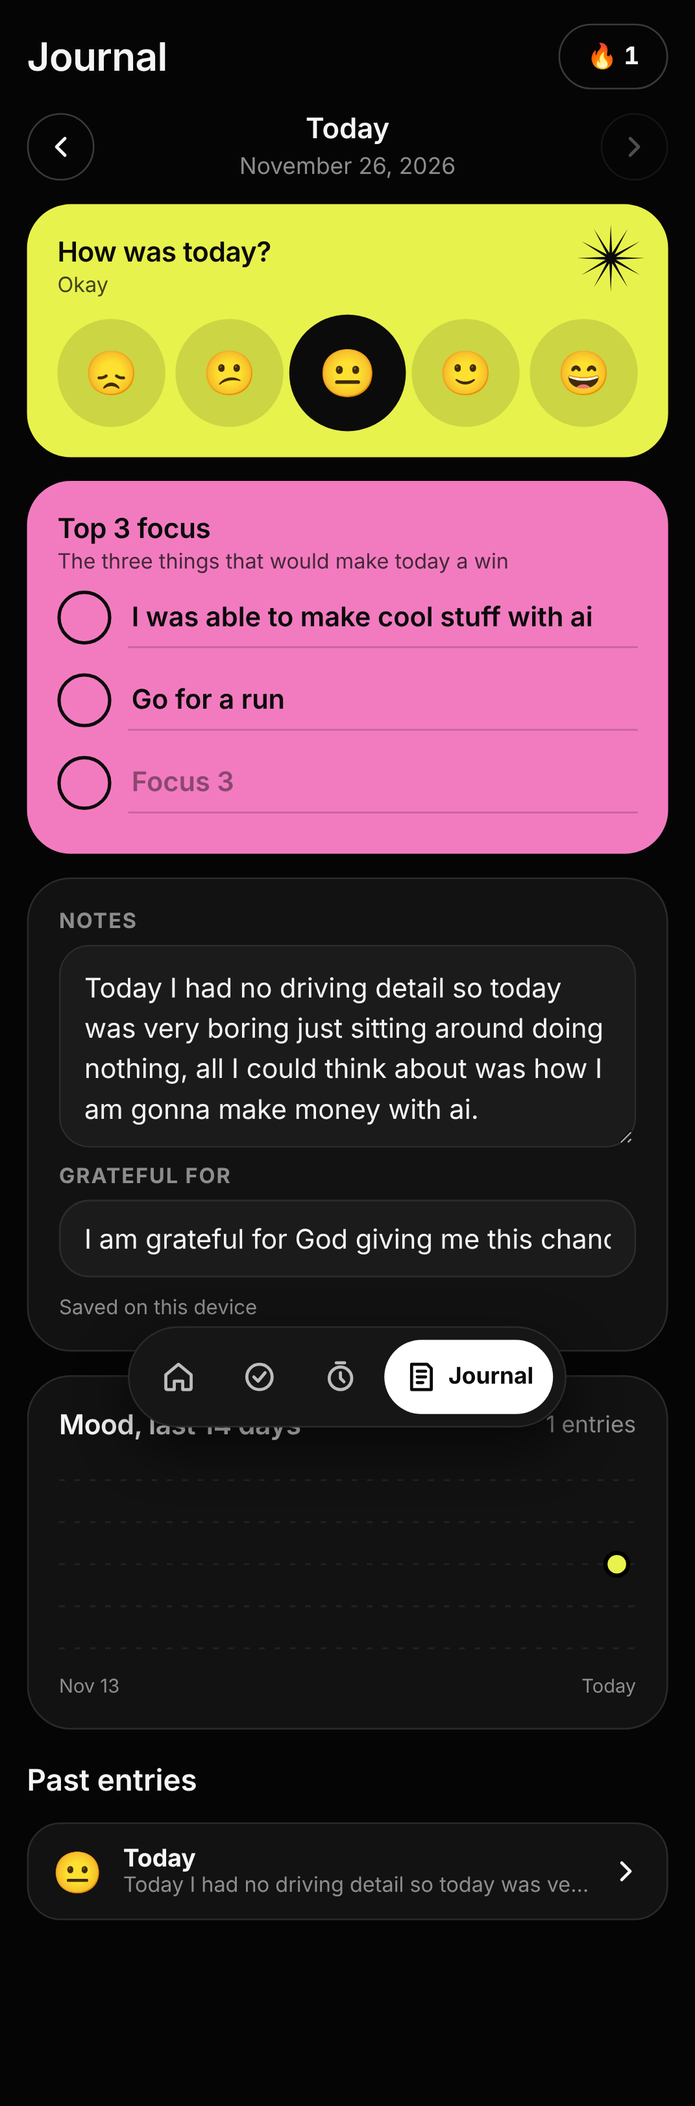
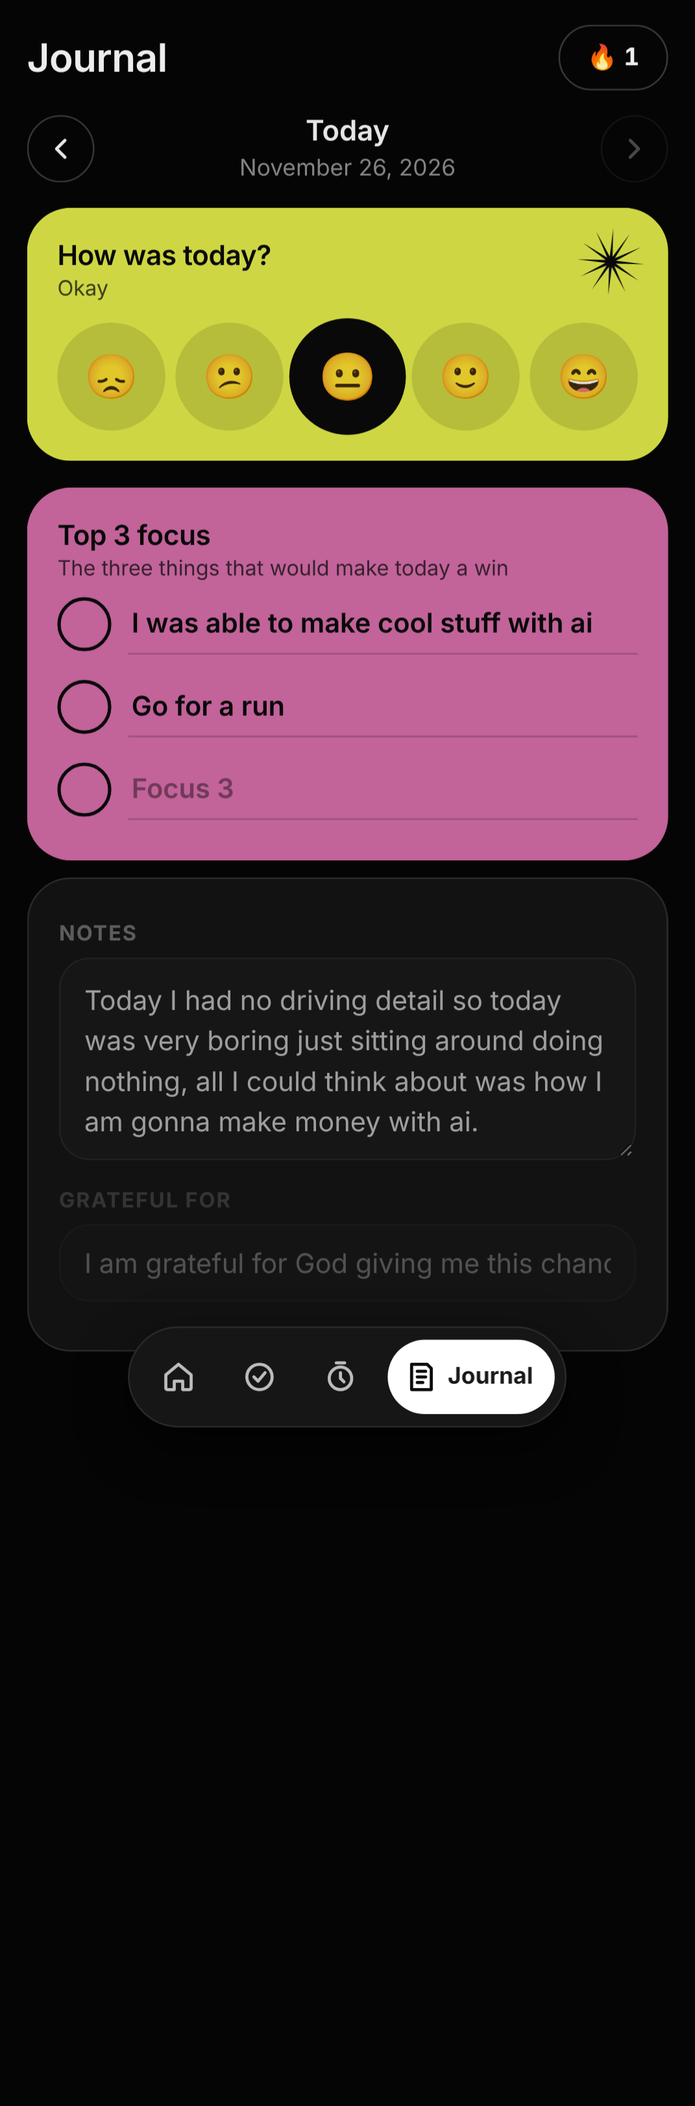
Dayflow: animations (staggered screens, sliding nav pill, check bursts, confetti, count-ups, chart draw, ticking seconds)
Claude-Session: https://claude.ai/code/session_0178LUQqk8rrMbbJeuVPEM3K

diff --git a/journal/index.html b/journal/index.html
@@ -233,25 +233,59 @@
   .intro input { width: 100%; font: inherit; font-size: 1.05rem; color: var(--text); background: transparent; border: 1.5px solid #3a3a3a; border-radius: 999px; padding: 14px 18px; position: relative; }
   .intro .go { width: 100%; border-radius: 999px; padding: 16px; background: #fff; color: var(--ink); font-weight: 800; font-size: 1rem; position: relative; }
 
-  .toast { position: fixed; left: 50%; bottom: calc(90px + env(safe-area-inset-bottom)); transform: translateX(-50%); z-index: 60; background: #fff; color: var(--ink); font-weight: 700; padding: 10px 16px; border-radius: 999px; font-size: .88rem; animation: up .2s ease-out; box-shadow: 0 8px 20px rgba(0,0,0,.5); }
+  .toast { position: fixed; left: 50%; bottom: calc(90px + env(safe-area-inset-bottom)); transform: translateX(-50%); z-index: 60; background: #fff; color: var(--ink); font-weight: 700; padding: 10px 16px; border-radius: 999px; font-size: .88rem; box-shadow: 0 8px 20px rgba(0,0,0,.5); white-space: nowrap; }
   .empty { color: var(--muted); font-size: .9rem; text-align: center; padding: 18px 8px; }
   .section-title { display: flex; align-items: center; justify-content: space-between; gap: 10px; margin-top: 6px; }
   .section-title h2 { font-family: var(--display); font-weight: 600; font-size: 1.1rem; }
   .footer-links { text-align: center; font-size: .78rem; color: var(--muted); margin-top: 8px; }
   .footer-links a { color: var(--muted); }
 
+  /* ---------- Motion ---------- */
+  canvas#fx { position: fixed; inset: 0; width: 100%; height: 100%; pointer-events: none; z-index: 70; }
+  .nav button { position: relative; z-index: 1; transition: color .25s; }
+  .nav button.on { background: transparent; }
+  .nav-ind { position: absolute; top: 7px; left: 7px; height: 44px; width: 44px; border-radius: 999px; background: #fff; z-index: 0; transition: left .42s cubic-bezier(.3,1.35,.5,1), width .42s cubic-bezier(.3,1.35,.5,1); }
+  .nav.no-anim .nav-ind { transition: none; }
+  .nav button.on span { animation: labelIn .35s ease-out; }
+  @keyframes labelIn { from { opacity: 0; transform: translateX(-6px); } }
+  .starburst polygon, .intro .stars polygon { transform-box: fill-box; transform-origin: center; animation: spinSlow 24s linear infinite; }
+  .intro .stars g:nth-child(2) polygon { animation-duration: 36s; animation-direction: reverse; }
+  .intro .stars g:nth-child(3) polygon { animation: spinSlow 30s linear infinite, starPop .9s cubic-bezier(.2,1.4,.4,1) both; }
+  @keyframes spinSlow { to { transform: rotate(360deg); } }
+  @keyframes starPop { from { transform: scale(0) rotate(-90deg); } }
+  .intro h1, .intro p, .intro input, .intro .go { animation: rise .7s cubic-bezier(.2,.8,.2,1) both; }
+  .intro p { animation-delay: .12s; } .intro input { animation-delay: .22s; } .intro .go { animation-delay: .32s; }
+  @keyframes rise { from { opacity: 0; transform: translateY(22px); } }
+  button.card, .habit, .entry, .wide-btn, .pill, .chip, .folder, .mini-item, .week button { transition: transform .18s cubic-bezier(.3,1.4,.5,1); }
+  button.card:active, .entry:active, .wide-btn:active, .pill:active, .chip:active, .week button:active { transform: scale(.97); }
+  .add-btn { transition: transform .3s cubic-bezier(.3,1.4,.5,1); }
+  .add-btn:active { transform: rotate(90deg) scale(.9); }
+  .moods button:active { transform: scale(.9); }
+  .focus-item input { transition: opacity .3s; }
+  .focus-item input.struck { text-decoration: line-through; opacity: .55; }
+  .heat i { animation: cellIn .4s cubic-bezier(.2,1.4,.4,1) backwards; animation-delay: calc(var(--d) * 28ms); }
+  @keyframes cellIn { from { transform: scale(0); opacity: 0; } }
+  .sheet-bg { animation: fadeIn .2s ease-out; }
+  @keyframes fadeIn { from { opacity: 0; } }
+  .sheet { animation: sheetUp .38s cubic-bezier(.2,1,.3,1); }
+  @keyframes sheetUp { from { transform: translateY(100%); } }
+  .toast { animation: toastIn .35s cubic-bezier(.2,1.3,.4,1); }
+  @keyframes toastIn { from { opacity: 0; transform: translate(-50%, 16px) scale(.9); } }
+
   @media (prefers-reduced-motion: reduce) { *, *::before, *::after { animation: none !important; transition: none !important; } }
 </style>
 </head>
 <body>
 <div class="app" id="app"></div>
-<nav class="nav hidden" id="nav" aria-label="Sections">
+<nav class="nav hidden no-anim" id="nav" aria-label="Sections">
+  <span class="nav-ind" id="navInd" aria-hidden="true"></span>
   <button data-tab="home" aria-label="Home"><svg viewBox="0 0 24 24" fill="none" stroke="currentColor" stroke-width="2.2" stroke-linecap="round" stroke-linejoin="round"><path d="M3 10.5 12 3l9 7.5V20a1 1 0 0 1-1 1h-5v-6h-6v6H4a1 1 0 0 1-1-1z"/></svg><span>Home</span></button>
   <button data-tab="habits" aria-label="Habits"><svg viewBox="0 0 24 24" fill="none" stroke="currentColor" stroke-width="2.2" stroke-linecap="round" stroke-linejoin="round"><circle cx="12" cy="12" r="9"/><path d="m8 12 3 3 5-6"/></svg><span>Habits</span></button>
   <button data-tab="countdowns" aria-label="Countdowns"><svg viewBox="0 0 24 24" fill="none" stroke="currentColor" stroke-width="2.2" stroke-linecap="round" stroke-linejoin="round"><circle cx="12" cy="13" r="8"/><path d="M12 9v4l2.5 2.5M9 2h6"/></svg><span>Countdown</span></button>
   <button data-tab="journal" aria-label="Journal"><svg viewBox="0 0 24 24" fill="none" stroke="currentColor" stroke-width="2.2" stroke-linecap="round" stroke-linejoin="round"><path d="M5 3h11l3 3v15H5z"/><path d="M9 8h6M9 12h6M9 16h4"/></svg><span>Journal</span></button>
 </nav>
 <div id="sheetRoot"></div>
+<canvas id="fx" aria-hidden="true"></canvas>
 
 <script>
 (() => {
@@ -266,7 +300,7 @@ const store = {
   setFlag(k, v) { try { localStorage.setItem('dayflow:' + k, v ? '1' : '0'); } catch { /* ignore */ } },
 };
 
-const APP_VERSION = '3';
+const APP_VERSION = '4';
 // ================= Install / offline =================
 let installEvt = null;
 const isStandalone = () => matchMedia('(display-mode: standalone)').matches || navigator.standalone === true;
@@ -407,7 +441,108 @@ let habitDay = todayKey();
 let journalDay = todayKey();
 let detail = null;           // {type:'habit', id}
 
-function setTab(t) { tab = t; detail = null; render(); window.scrollTo({ top: 0 }); }
+// ================= Motion =================
+const RM = () => matchMedia('(prefers-reduced-motion: reduce)').matches;
+let enterAnim = true;        // stagger cards in on the next render
+let slideDir = 0;            // journal day change: -1 / 1
+const afterQueue = [];       // small effects to run once the new DOM is in place
+const ease = 'cubic-bezier(.2,.8,.2,1)';
+const anim = (el, kf, opts) => (!el || RM() || !el.animate) ? null : el.animate(kf, opts);
+
+const fx = (() => {
+  let cv, c, parts = [], running = false;
+  const ensure = () => {
+    if (cv) return;
+    cv = $('fx'); c = cv.getContext('2d');
+    const size = () => { const d = devicePixelRatio || 1; cv.width = innerWidth * d; cv.height = innerHeight * d; c.setTransform(d, 0, 0, d, 0, 0); };
+    size(); addEventListener('resize', size);
+  };
+  const loop = () => {
+    c.clearRect(0, 0, innerWidth, innerHeight);
+    parts = parts.filter(p => p.life > 0);
+    for (const p of parts) {
+      p.x += p.vx; p.y += p.vy; p.vy += p.g; p.vx *= .97; p.life -= p.decay; p.r += p.vr;
+      c.globalAlpha = Math.max(0, Math.min(1, p.life * 1.5)); c.fillStyle = p.col;
+      c.save(); c.translate(p.x, p.y); c.rotate(p.r);
+      if (p.round) { c.beginPath(); c.arc(0, 0, p.s / 2, 0, Math.PI * 2); c.fill(); } else c.fillRect(-p.s / 2, -p.s / 4, p.s, p.s / 2);
+      c.restore();
+    }
+    c.globalAlpha = 1;
+    if (parts.length) requestAnimationFrame(loop); else { running = false; c.clearRect(0, 0, innerWidth, innerHeight); }
+  };
+  const go = () => { if (!running) { running = true; requestAnimationFrame(loop); } };
+  const cols = ['#e8f24c', '#f27bc0', '#4f8cff', '#3be36e', '#ff7a5c', '#2ec4b6', '#ffffff'];
+  return {
+    burst(x, y, colors, n = 16) {
+      if (RM()) return; ensure();
+      for (let i = 0; i < n; i++) { const a = Math.PI * 2 * i / n + Math.random() * .4, sp = 2.5 + Math.random() * 3.5; parts.push({ x, y, vx: Math.cos(a) * sp, vy: Math.sin(a) * sp, g: .08, life: 1, decay: .03 + Math.random() * .02, s: 5 + Math.random() * 4, col: colors[i % colors.length], r: 0, vr: 0, round: true }); }
+      go();
+    },
+    confetti() {
+      if (RM()) return; ensure();
+      for (let i = 0; i < 140; i++) parts.push({ x: innerWidth / 2 + (Math.random() - .5) * 80, y: innerHeight * .4, vx: (Math.random() - .5) * 16, vy: -6 - Math.random() * 9, g: .22, life: 1.6, decay: .008 + Math.random() * .008, s: 7 + Math.random() * 6, col: cols[i % cols.length], r: Math.random() * 6, vr: (Math.random() - .5) * .3 });
+      go();
+    },
+  };
+})();
+
+function updateNav() {
+  const nav = $('nav'), on = nav.querySelector('button.on'), ind = $('navInd');
+  if (!on) return;
+  ind.style.left = on.offsetLeft + 'px';
+  ind.style.width = on.offsetWidth + 'px';
+  if (nav.classList.contains('no-anim')) requestAnimationFrame(() => requestAnimationFrame(() => nav.classList.remove('no-anim')));
+}
+
+function countUp(el) {
+  const m = el.textContent.trim().match(/^(\d+)(.*)$/);
+  if (!m || RM()) return;
+  const to = +m[1], suf = m[2];
+  if (!to) return;
+  const t0 = performance.now(), dur = 700;
+  const step = (now) => {
+    const k = Math.min(1, (now - t0) / dur), v = Math.round(to * (1 - Math.pow(1 - k, 3)));
+    el.textContent = v + suf;
+    if (k < 1) requestAnimationFrame(step);
+  };
+  requestAnimationFrame(step);
+}
+
+function afterRender() {
+  const app = $('app');
+  updateNav();
+  if (enterAnim && !RM()) {
+    // Cards rise in one after another
+    const items = [];
+    for (const el of app.children) { if (el.classList.contains('stack') && el.children.length) items.push(...el.children); else items.push(el); }
+    items.slice(0, 14).forEach((el, i) => anim(el, [{ opacity: 0, transform: 'translateY(20px)' }, { opacity: 1, transform: 'none' }], { duration: 480, delay: i * 50, easing: ease, fill: 'backwards' }));
+    // Bars fill, knobs travel, numbers count, charts draw
+    app.querySelectorAll('.bar > div').forEach(b => anim(b, [{ width: '0%' }, { width: b.style.width || '0%' }], { duration: 900, delay: 150, easing: ease, fill: 'backwards' }));
+    app.querySelectorAll('.dtrack .knob').forEach(k => { const to = k.style.left; if (to) anim(k, [{ left: '7%' }, { left: to }], { duration: 1100, delay: 250, easing: ease, fill: 'backwards' }); });
+    app.querySelectorAll('.folder .big, .stat3 b').forEach(countUp);
+    app.querySelectorAll('svg.spark, .chart-card svg').forEach(svg => anim(svg, [{ clipPath: 'inset(0 100% 0 0)' }, { clipPath: 'inset(0 0 0 0)' }], { duration: 1100, delay: 300, easing: 'ease-out', fill: 'backwards' }));
+  }
+  if (slideDir && !RM()) {
+    [...app.children].slice(2).forEach((el, i) => anim(el, [{ opacity: 0, transform: `translateX(${slideDir * 36}px)` }, { opacity: 1, transform: 'none' }], { duration: 380, delay: i * 35, easing: ease, fill: 'backwards' }));
+  }
+  enterAnim = false; slideDir = 0;
+  while (afterQueue.length) afterQueue.shift()();
+}
+
+// Pop + particle burst on a freshly ticked habit
+function celebrateCheck(sel, color) {
+  afterQueue.push(() => {
+    const el = document.querySelector(sel);
+    if (!el) return;
+    anim(el, [{ transform: 'scale(.6)' }, { transform: 'scale(1.22)', offset: .55 }, { transform: 'scale(1)' }], { duration: 480, easing: 'cubic-bezier(.3,1.5,.5,1)' });
+    const card = el.closest('.habit');
+    if (card) anim(card, [{ filter: 'brightness(1.25)' }, { filter: 'brightness(1)' }], { duration: 500 });
+    const r = el.getBoundingClientRect();
+    fx.burst(r.left + r.width / 2, r.top + r.height / 2, [color, '#ffffff', '#0b0b0b']);
+  });
+}
+
+function setTab(t) { if (t !== tab || detail) enterAnim = true; tab = t; detail = null; render(); window.scrollTo({ top: 0 }); }
 document.querySelectorAll('#nav button').forEach(b => b.onclick = () => setTab(b.dataset.tab));
 
 function render() {
@@ -415,10 +550,11 @@ function render() {
   if (!D.name) { $('nav').classList.add('hidden'); app.innerHTML = introHTML(); bindIntro(); return; }
   $('nav').classList.remove('hidden');
   document.querySelectorAll('#nav button').forEach(b => b.classList.toggle('on', b.dataset.tab === tab));
-  if (detail && detail.type === 'habit') { app.innerHTML = habitDetailHTML(detail.id); bindHabitDetail(detail.id); return; }
+  if (detail && detail.type === 'habit') { app.innerHTML = habitDetailHTML(detail.id); bindHabitDetail(detail.id); afterRender(); return; }
   app.innerHTML = ({ home: homeHTML, habits: habitsHTML, countdowns: countdownsHTML, journal: journalHTML })[tab]();
   ({ home: bindHome, habits: bindHabits, countdowns: bindCountdowns, journal: bindJournal })[tab]();
-  tick();
+  tick(true);
+  afterRender();
 }
 
 // ================= Intro =================
@@ -441,7 +577,8 @@ function bindIntro() {
     if (!n) { $('nameIn').focus(); toast('Type your name first'); return; }
     D.name = n;
     if (!D.habits.length && !D.countdowns.length) seed();
-    save(); render();
+    save(); enterAnim = true; render();
+    afterQueue.push(() => fx.confetti());
   };
   $('goBtn').onclick = go;
   $('nameIn').onkeydown = (e) => { if (e.key === 'Enter') go(); };
@@ -555,7 +692,11 @@ function bindHome() {
   if ($('heroAdd')) $('heroAdd').onclick = () => openCountdownSheet();
   $('homeJournal').onclick = () => { journalDay = todayKey(); setTab('journal'); };
   $('reflectBtn').onclick = () => { journalDay = todayKey(); setTab('journal'); };
-  document.querySelectorAll('[data-quick]').forEach(b => b.onclick = () => { toggleHabit(b.dataset.quick, todayKey()); render(); });
+  document.querySelectorAll('[data-quick]').forEach(b => b.onclick = () => {
+    const on = toggleHabit(b.dataset.quick, todayKey());
+    if (on) celebrateCheck(`[data-quick="${b.dataset.quick}"] .dot`, '#f27bc0');
+    render();
+  });
 }
 
 function toggleHabit(id, k) {
@@ -564,7 +705,11 @@ function toggleHabit(id, k) {
   if (h.log[k]) delete h.log[k]; else { h.log[k] = true; if (navigator.vibrate) try { navigator.vibrate(12); } catch { /* unsupported */ } }
   save();
   const s = streak(h);
-  if (h.log[k] && k === todayKey() && s > 1 && [3, 7, 14, 21, 30, 50, 100].includes(s)) toast(`🔥 ${s}-day streak on ${h.name}!`);
+  const on = !!h.log[k];
+  const todays = D.habits.filter(x => scheduled(x, new Date()));
+  if (on && k === todayKey() && todays.length > 1 && todays.every(x => isDone(x, k))) { toast('All habits done today! 🎉'); afterQueue.push(() => fx.confetti()); }
+  else if (on && k === todayKey() && s > 1 && [3, 7, 14, 21, 30, 50, 100].includes(s)) { toast(`🔥 ${s}-day streak on ${h.name}!`); afterQueue.push(() => fx.confetti()); }
+  return on;
 }
 
 // ================= Habits =================
@@ -610,8 +755,14 @@ function bindHabits() {
   document.querySelectorAll('[data-day]').forEach(b => b.onclick = () => { habitDay = b.dataset.day; render(); });
   $('wkPrev').onclick = () => { habitDay = keyOf(addDays(fromKey(habitDay), -7)); render(); };
   $('wkNext').onclick = () => { const n = addDays(fromKey(habitDay), 7); habitDay = keyOf(n > new Date() ? new Date() : n); render(); };
-  document.querySelectorAll('[data-toggle]').forEach(b => b.onclick = () => { toggleHabit(b.dataset.toggle, habitDay); render(); });
-  document.querySelectorAll('[data-open]').forEach(b => b.onclick = () => { detail = { type: 'habit', id: b.dataset.open }; render(); window.scrollTo({ top: 0 }); });
+  document.querySelectorAll('[data-toggle]').forEach(b => b.onclick = () => {
+    const id = b.dataset.toggle, h = D.habits.find(x => x.id === id);
+    const on = toggleHabit(id, habitDay);
+    if (on) celebrateCheck(`[data-toggle="${id}"]`, getComputedStyle(document.documentElement).getPropertyValue('--' + h.color).trim());
+    else afterQueue.push(() => anim(document.querySelector(`[data-toggle="${id}"]`), [{ transform: 'scale(.85)' }, { transform: 'scale(1)' }], { duration: 250, easing: ease }));
+    render();
+  });
+  document.querySelectorAll('[data-open]').forEach(b => b.onclick = () => { detail = { type: 'habit', id: b.dataset.open }; enterAnim = true; render(); window.scrollTo({ top: 0 }); });
 }
 
 function habitDetailHTML(id) {
@@ -624,7 +775,7 @@ function habitDetailHTML(id) {
   for (let i = 0; i < weeks * 7; i++) {
     const d = addDays(start, i), k = keyOf(d);
     const cls = k > todayKey() ? 'na' : !scheduled(h, d) || d < fromKey(h.created) ? 'na' : isDone(h, k) ? 'on' : '';
-    cells.push(`<i class="${cls} ${k === todayKey() ? 'today' : ''}" title="${fmtDate(d)}"></i>`);
+    cells.push(`<i class="${cls} ${k === todayKey() ? 'today' : ''}" style="--d:${Math.floor(i / 7)}" title="${fmtDate(d)}"></i>`);
   }
   const total = Object.keys(h.log).length;
   return `
@@ -650,7 +801,7 @@ function habitDetailHTML(id) {
     </div>`;
 }
 function bindHabitDetail(id) {
-  $('dBack').onclick = () => { detail = null; render(); };
+  $('dBack').onclick = () => { detail = null; enterAnim = true; render(); };
   $('dEdit').onclick = () => openHabitSheet(D.habits.find(x => x.id === id));
   $('dDelete').onclick = () => confirmSheet('Delete this habit?', 'Its whole history will be removed. This can\'t be undone.', 'Delete habit', () => {
     D.habits = D.habits.filter(x => x.id !== id); save(); detail = null; render(); toast('Habit deleted');
@@ -755,13 +906,14 @@ function openCountdownSheet(c) {
 }
 
 // Live update every second (only the numbers, so typing elsewhere is never interrupted)
-function tick() {
+function tick(first) {
   for (const c of D.countdowns) {
     const p = cdParts(c);
     document.querySelectorAll(`[data-cd-days="${c.id}"]`).forEach(el => { el.innerHTML = p.past ? `Done<small>${p.days ? p.days + ' day' + (p.days === 1 ? '' : 's') + ' ago' : 'today'}</small>` : `${p.days}<small>day${p.days === 1 ? '' : 's'}</small>`; });
     document.querySelectorAll(`[data-cd-clock="${c.id}"]`).forEach(el => { el.textContent = p.past ? '🎉 It\'s here' : `${pad(p.h)}:${pad(p.m)}:${pad(p.s)} left`; });
     document.querySelectorAll(`[data-cd-clock4="${c.id}"]`).forEach(el => {
       el.innerHTML = p.past ? '' : [['days', p.days], ['hrs', p.h], ['min', p.m], ['sec', p.s]].map(([l, v]) => `<span>${l === 'days' ? v : pad(v)}<small>${l}</small></span>`).join('');
+      if (!first && !p.past) anim(el.lastElementChild, [{ transform: 'translateY(-5px)', opacity: .35 }, { transform: 'none', opacity: 1 }], { duration: 320, easing: 'cubic-bezier(.3,1.5,.5,1)' });
     });
     document.querySelectorAll(`[data-cd-track="${c.id}"] .knob`).forEach(el => { el.style.left = `calc(${(p.past ? 1 : p.pct) * 100}% * .86 + 7%)`; });
   }
@@ -837,29 +989,52 @@ function bindJournal() {
     $('savedNote').textContent = D.journal[k] ? 'Saved on this device ✓' : 'Saves automatically as you type';
     if (rerender) render();
   };
-  $('jPrev').onclick = () => { journalDay = keyOf(addDays(fromKey(k), -1)); render(); };
-  $('jNext').onclick = () => { if (k < todayKey()) { journalDay = keyOf(addDays(fromKey(k), 1)); render(); } };
-  document.querySelectorAll('[data-mood]').forEach(b => b.onclick = () => { e.mood = e.mood === +b.dataset.mood ? -1 : +b.dataset.mood; commit(true); });
+  $('jPrev').onclick = () => { journalDay = keyOf(addDays(fromKey(k), -1)); slideDir = -1; render(); };
+  $('jNext').onclick = () => { if (k < todayKey()) { journalDay = keyOf(addDays(fromKey(k), 1)); slideDir = 1; render(); } };
+  document.querySelectorAll('[data-mood]').forEach(b => b.onclick = () => {
+    e.mood = e.mood === +b.dataset.mood ? -1 : +b.dataset.mood;
+    if (e.mood >= 0) afterQueue.push(() => {
+      const el = document.querySelector(`[data-mood="${e.mood}"]`);
+      anim(el, [{ transform: 'scale(.7) rotate(-12deg)' }, { transform: 'scale(1.22) rotate(8deg)', offset: .5 }, { transform: 'scale(1.08) rotate(0)' }], { duration: 520, easing: 'cubic-bezier(.3,1.5,.5,1)' });
+      anim($('moodName'), [{ opacity: 0, transform: 'translateY(6px)' }, { opacity: 1, transform: 'none' }], { duration: 300, easing: ease });
+    });
+    commit(true);
+  });
+  document.querySelectorAll('[data-focus]').forEach(inp => inp.classList.toggle('struck', !!e.done[+inp.dataset.focus]));
   document.querySelectorAll('[data-fdone]').forEach(b => b.onclick = () => {
     const i = +b.dataset.fdone;
     if (!e.focus[i].trim()) { toast('Write the focus first'); document.querySelector(`[data-focus="${i}"]`).focus(); return; }
     e.done[i] = !e.done[i]; commit(false);
     b.classList.toggle('on', e.done[i]); b.setAttribute('aria-pressed', e.done[i]);
+    document.querySelector(`[data-focus="${i}"]`).classList.toggle('struck', e.done[i]);
+    anim(b, [{ transform: 'scale(.6)' }, { transform: 'scale(1.2)', offset: .55 }, { transform: 'scale(1)' }], { duration: 420, easing: 'cubic-bezier(.3,1.5,.5,1)' });
+    if (e.done[i]) { const r = b.getBoundingClientRect(); fx.burst(r.left + r.width / 2, r.top + r.height / 2, ['#0b0b0b', '#ffffff', '#e8f24c'], 12); }
   });
   const debounced = () => { clearTimeout(saveTimer); $('savedNote').textContent = 'Saving…'; saveTimer = setTimeout(() => commit(false), 400); };
   document.querySelectorAll('[data-focus]').forEach(inp => inp.oninput = () => { e.focus[+inp.dataset.focus] = inp.value; if (!inp.value.trim()) e.done[+inp.dataset.focus] = false; debounced(); });
   $('jNotes').oninput = (ev) => { e.notes = ev.target.value; debounced(); };
   $('jGrateful').oninput = (ev) => { e.grateful = ev.target.value; debounced(); };
-  document.querySelectorAll('[data-entry]').forEach(b => b.onclick = () => { journalDay = b.dataset.entry; render(); window.scrollTo({ top: 0, behavior: 'smooth' }); });
+  document.querySelectorAll('[data-entry]').forEach(b => b.onclick = () => { journalDay = b.dataset.entry; enterAnim = true; render(); window.scrollTo({ top: 0, behavior: 'smooth' }); });
 }
 
 // ================= Sheets =================
 function openSheet(html) {
+  const open = $('sheetBg');
+  if (open) { open.firstElementChild.innerHTML = `<div class="grab"></div>${html}`; return; }   // already open: just swap the content
   $('sheetRoot').innerHTML = `<div class="sheet-bg" id="sheetBg"><div class="sheet" role="dialog" aria-modal="true"><div class="grab"></div>${html}</div></div>`;
   $('sheetBg').onclick = (e) => { if (e.target.id === 'sheetBg') closeSheet(); };
 }
-function closeSheet() { $('sheetRoot').innerHTML = ''; }
-document.addEventListener('keydown', (e) => { if (e.key === 'Escape' && $('sheetRoot').innerHTML) closeSheet(); });
+function closeSheet() {
+  const bg = $('sheetBg');
+  if (!bg) return;
+  bg.id = '';                                    // a new sheet may open while this one leaves
+  if (RM() || !bg.animate) { bg.remove(); return; }
+  bg.style.pointerEvents = 'none';
+  bg.animate([{ opacity: 1 }, { opacity: 0 }], { duration: 220, fill: 'forwards' });
+  bg.firstElementChild.animate([{ transform: 'none' }, { transform: 'translateY(100%)' }], { duration: 240, easing: 'cubic-bezier(.5,0,.8,.4)', fill: 'forwards' }).finished.then(() => bg.remove(), () => bg.remove());
+}
+document.addEventListener('keydown', (e) => { if (e.key === 'Escape' && $('sheetBg')) closeSheet(); });
+addEventListener('resize', () => { if (D.name) updateNav(); });
 function confirmSheet(title, body, label, fn) {
   openSheet(`<h2>${esc(title)}</h2><p style="margin:0;color:var(--muted)">${esc(body)}</p>
     <div class="btn-row"><button class="wide-btn ghost" id="cfNo">Cancel</button><button class="wide-btn" id="cfYes" style="background:#ff6b6b">${esc(label)}</button></div>`);
@@ -906,7 +1081,7 @@ function openSettings() {
 
 // Re-render at midnight so "today" rolls over
 let lastDay = todayKey();
-setInterval(() => { if (todayKey() !== lastDay) { lastDay = todayKey(); habitDay = journalDay = lastDay; if (!$('sheetRoot').innerHTML && document.activeElement.tagName !== 'TEXTAREA' && document.activeElement.tagName !== 'INPUT') render(); } }, 30000);
+setInterval(() => { if (todayKey() !== lastDay) { lastDay = todayKey(); habitDay = journalDay = lastDay; if (!$('sheetBg') && document.activeElement.tagName !== 'TEXTAREA' && document.activeElement.tagName !== 'INPUT') render(); } }, 30000);
 
 if (['#journal', '#habits', '#countdowns'].includes(location.hash)) tab = location.hash.slice(1);
 addEventListener('hashchange', () => { if (['#journal', '#habits', '#countdowns', '#home'].includes(location.hash) && D.name) setTab(location.hash.slice(1)); });

diff --git a/journal/sw.js b/journal/sw.js
@@ -1,5 +1,5 @@
 // Dayflow service worker: keeps the app on the phone so it opens instantly and works offline.
-const VERSION = 'dayflow-v3';
+const VERSION = 'dayflow-v4';
 const SHELL = ['./', './index.html', './manifest.webmanifest', './icons/icon-192.png', './icons/icon-512.png', './icons/maskable-512.png', './icons/apple-touch-icon.png', './icons/favicon-32.png'];
 
 self.addEventListener('install', (e) => {
